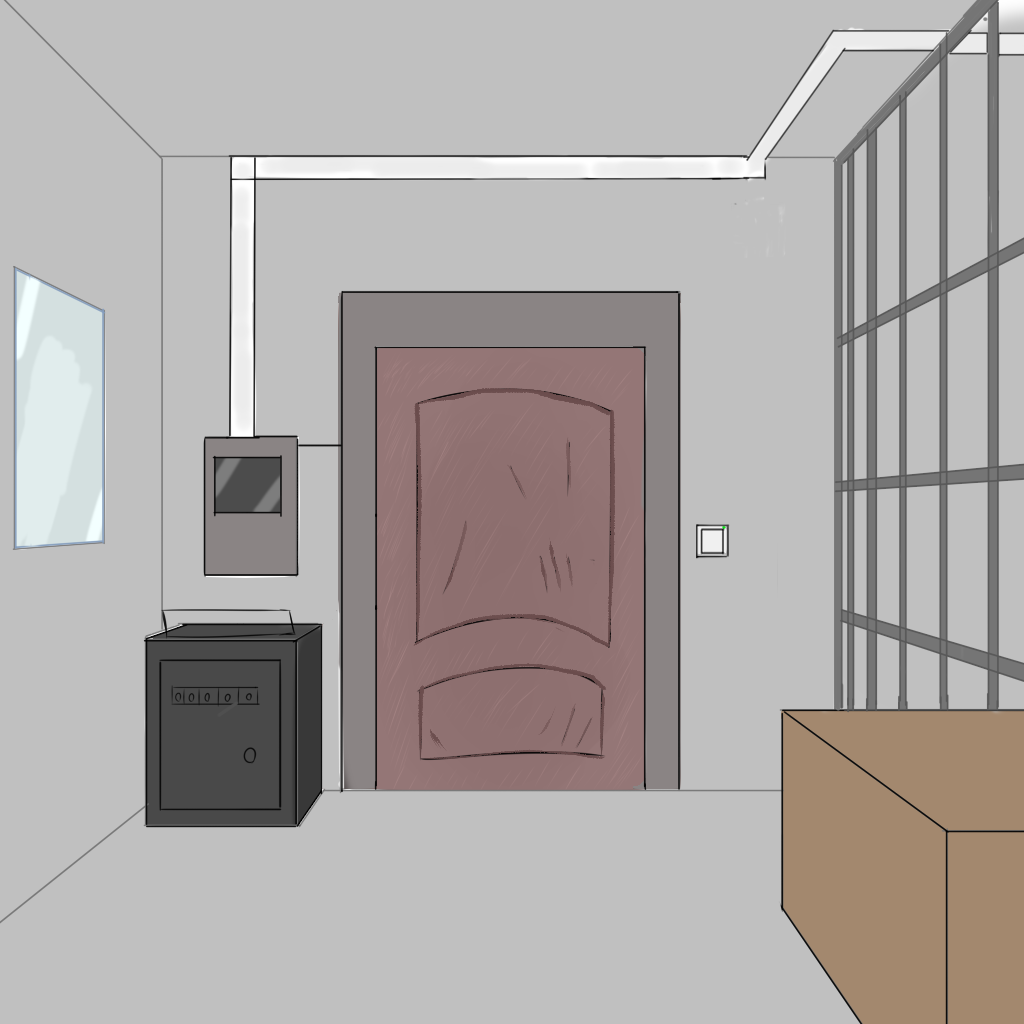
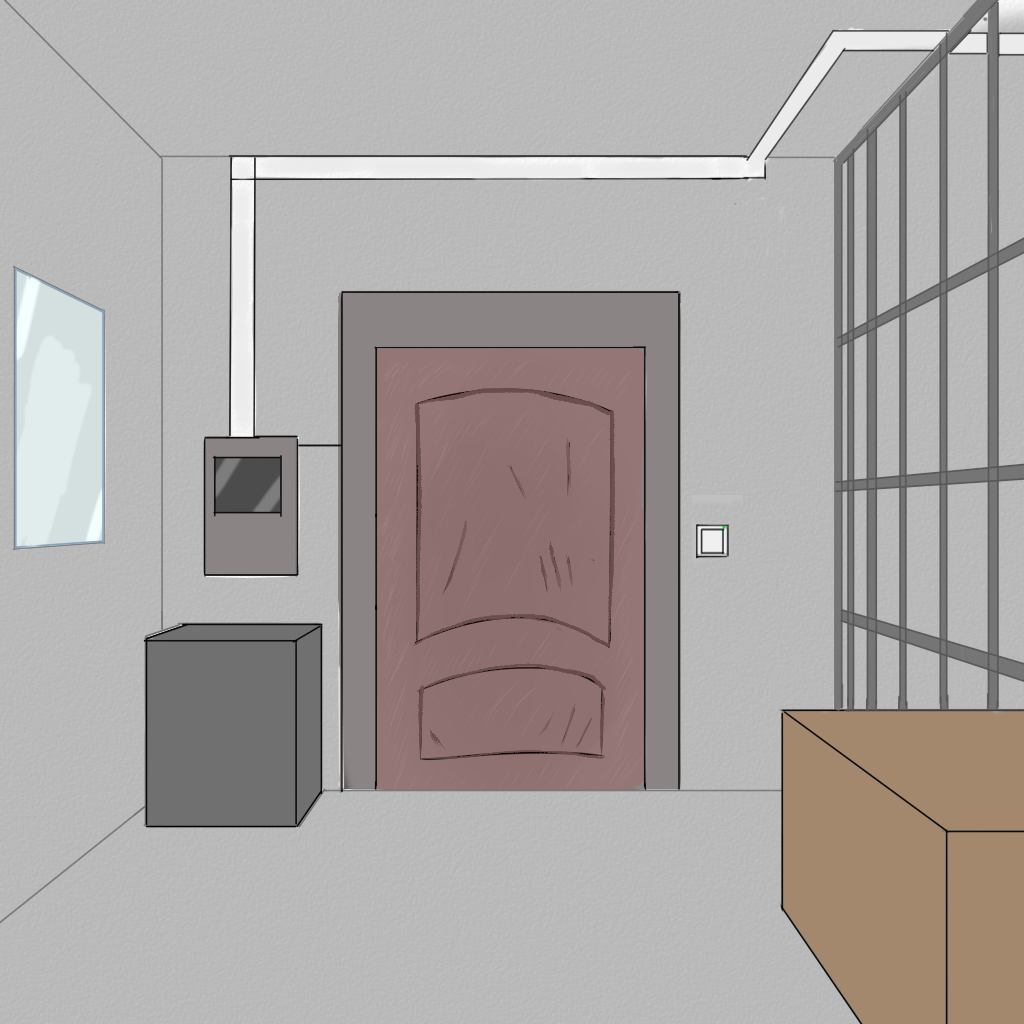
Debug and art (#153)
* added and improved images

* added new objects

* improved lock

* drawer fixed

Changed region(s): [[0.125, 0.5938, 0.3125, 0.8125]]

diff --git a/src/components/game/index.js b/src/components/game/index.js
@@ -158,7 +158,7 @@ export default function Game(props) {
 
   function displayLastRiddle() {
     //    frontDoor.children[4].on("pointerdown", openEscapeDoor);
-    //    frontDoor.children[6].visible = true;
+     frontDoor.children[6].visible = true;
     //    frontDoor.children[2]
     dispatch({ type: "SELECT_ESCAPE_SCREEN" });
     // frontDoor.children[4].on("pointerdown", openEscapeDoor);
@@ -168,6 +168,7 @@ export default function Game(props) {
   function useBlueCard() {
     dispatch({ type: "SELECT_BLUE_SLOT" });
     // sets displayLastRiddle on the escapeDoorScreen
+    frontDoor.children[6].visible = true;
     frontDoor.children[4].on("pointerdown", displayLastRiddle);
   }
 
@@ -190,7 +191,7 @@ export default function Game(props) {
   function takeIDCard1() {
     dispatch({ type: "TAKE_IDCARD1" });
     // let greenSlot = innerCell.children[1];
-    greenCard = frontDoor.children[3];
+    greenCard = frontDoor.children[8];
     greenCard.visible = false;
     // props.app.stage.children[8].visible = false;
     // greenSlot.off("pointerdown", withoutGreenCard);
@@ -203,7 +204,7 @@ export default function Game(props) {
 
   function takeIDCard2() {
     //5 is idCArd 2 - yellow card (without flashlight 4)
-    yellowCard = corner.children[3];
+    yellowCard = corner.children[6];
     yellowCard.visible = false;
     dispatch({ type: "TAKE_IDCARD2" });
     innerCell.children[3].off("pointerdown", withoutBlueCard);
@@ -231,20 +232,13 @@ export default function Game(props) {
     // props.app.stage.children[8].visible = true;
     door.off("pointerdown", closedDoor);
     door.on("pointerdown", openDoor);
-    // config.greenCard.visible = false;
-    // config.door.off("pointerdown", closedDoor);
-    // config.door.on("pointerdown", openDoor);
   }
 
   function takeFlashLight() {
     dispatch({ type: "TAKE_FLASHLIGHT" });
     //4 is FlashLightObject
     focus1.anchor.set(0.1);
-    // roomBack.children[4].visible = false;
-    // innerCell.children[4].visible = false; - closed box
-    // innerCell.children[5].visible = false; -opened box
-    innerCell.children[6].visible = false;
-    props.app.stage.children[7].visible = false;
+    innerCell.children[8].visible = false;
     props.app.stage.children[6].off("pointerdown", lightOn);
     props.app.stage.children[6].on("pointerdown", lightOnWithFlashLight);
     //GreenCardSlot gets deacivated:
@@ -334,19 +328,25 @@ export default function Game(props) {
     }
   };
 
+
+  // useGreenCard
   function openBox() {
     dispatch({ type: "OPEN_BOX" });
     let box = createBox(boxSheet, props.app);
     let boxOpened = box[1];
+    innerCell.children[4].visible = false;
     innerCell.addChild(boxOpened);
     let objects = setItems(items, props.app);
     objects.flashLight.on("pointerdown", takeFlashLight);
     innerCell.addChild(objects.flashLight);
   }
+
   function openExtraDrawer() {
     dispatch({ type: "OPEN_EXTRA_DRAWER" });
-    //make yellow card visible:
+    //OpenLilDoor
     props.app.stage.children[0].children[3].visible = true;
+    //make yellow card visible:
+    props.app.stage.children[0].children[6].visible = true;
     // finger
     props.app.stage.children[1].children[5].visible = true;
   }
@@ -404,6 +404,9 @@ export default function Game(props) {
     let boxClosed = box[0];
     // let boxOpened = box[1];
     let innerCellScreen = box[2];
+    let safe = box[3];
+    let safeOpen = box[4];
+    let tableOpen = box[5];
 
     // Preparing Eventhandler for Items, Objects and Interface
     left.on("pointerdown", turnLeft);
@@ -426,7 +429,7 @@ export default function Game(props) {
     objects.door.on("pointerdown", closedDoor);
 
     //FrontDoor
-    objects.safe.on("pointerdown", code);
+    safe.on("pointerdown", code);
     objects.escapeDoor.on("pointerdown", escapeDoorSealed);
     // objects.flashLight.on("pointerdown", takeFlashLight);
 
@@ -436,7 +439,7 @@ export default function Game(props) {
     objects.blueCardSlot.on("pointerdown", withoutBlueCard);
 
     // in corner
-    yellowCard = corner.children[3];
+    yellowCard = corner.children[6];
     //roomback
     objects.skeletonPc.on("pointerdown", nothingHappens);
     objects.skeletonFinger.on("pointerdown", nothingHappens);
@@ -445,16 +448,22 @@ export default function Game(props) {
     // order of objects in the roomback matters (starts from 0)
     // removes key  from drawer from corner for now - to add it when riddle solved
 
+
+
     corner.addChild(
       drawer,
       objects.key,
-      objects.idCard2,
+      tableOpen,
       objects.extraDrawer,
-      roomParts[6]
-    );
+      roomParts[6],
+      objects.idCard2, //Exchange
+     );
+
+
 
     objects.key.visible = false;
     objects.idCard2.visible = false;
+    corner.children[3].visible = false; //3 is Table
     corner.children[5].visible = false; //5 is message
 
     roomBack.addChild(
@@ -472,19 +481,24 @@ export default function Game(props) {
     roomBack.children[7].visible = false;
 
     frontDoor.addChild(
-      objects.escapeDoor,
-      objects.safe,
-      objects.idCard1,
+      objects.escapeDoor, //1
+      safe,
+      safeOpen,
       objects.escapeDoorScreen,
-      roomParts[8],
-      objects.lock,
-      objects.open
+      roomParts[8], //5
+      objects.lock, //6
+      objects.open, //7
+      objects.idCard1,
+        //8
       //FrontDoor Object Nr 1
       // objects.safe FrontDoor Nr 2
       // GreenCard Nr 3
       // escabeDoorScreen Nr4
       //Message Nr5
     );
+
+    frontDoor.children[8].visible = false;
+    frontDoor.children[3].visible = false;
 
     for (let i = 5; i <= 7; i++) {
       frontDoor.children[i].visible = false;
@@ -720,26 +734,35 @@ export default function Game(props) {
     let height = 300;
 
     boxSheet["closed"] = [
-      new PIXI.Texture(boxsheet, new PIXI.Rectangle(0, 0, width, height)),
+      new PIXI.Texture(boxsheet, new PIXI.Rectangle(10, 90, width, height)),
     ];
     boxSheet["opened"] = [
-      new PIXI.Texture(boxsheet, new PIXI.Rectangle(300, 0, width, height)),
+      new PIXI.Texture(boxsheet, new PIXI.Rectangle(410, 40, 250, 350)),
     ];
     boxSheet["uvlight"] = [
       new PIXI.Texture(boxsheet, new PIXI.Rectangle(620, 0, 260, 260)),
     ];
+    boxSheet["safe"] = [
+      new PIXI.Texture(boxsheet, new PIXI.Rectangle(100, 390, 200, 300)),
+    ];
+    boxSheet["safeOpen"] = [
+      new PIXI.Texture(boxsheet, new PIXI.Rectangle(260, 390, 300, 300)),
+    ];
+    boxSheet["tableOpen"] = [
+      new PIXI.Texture(boxsheet, new PIXI.Rectangle(360, 690, 300, 300)),   
+    ]
   }
 
   //State for Solved riddles
   if (
     assetReducer.solved.riddle1 === true &&
     props.app.stage.children[8].visible === true
-  ) {
+  ) { 
     leftArrow.visible = true;
     rightArrow.visible = true;
     props.app.stage.children[8].visible = false;
   }
-
+ 
   if (assetReducer.solved.riddle2Voucher === true) {
     props.app.stage.children[2].mask = false;
     props.app.stage.children[1].mask = false;
@@ -766,6 +789,7 @@ export default function Game(props) {
     // greenCard.visible = true;
     props.app.stage.children[3].children[6].visible = true;
     props.app.stage.children[2].children[3].visible = true;
+    props.app.stage.children[2].children[8].visible = true;
     // change skeletonPC function to display 5.riddle:
     props.app.stage.children[1].children[4].off("pointerdown", nothingHappens);
     props.app.stage.children[1].children[4].on(
@@ -793,6 +817,8 @@ export default function Game(props) {
     // frontDoor.children[4].on("pointerdown", openEscapeDoor);
     //or 2.  sets escape door on the door
     // frontDoor.children[1].on("pointerdown", escape); -doesnt work
+    props.app.stage.children[2].children[6].visible = false;
+    props.app.stage.children[2].children[7].visible = true;
     props.app.stage.children[2].children[1].on("pointerdown", escape);
   }
 

diff --git a/src/helper/createObjects.js b/src/helper/createObjects.js
@@ -88,8 +88,11 @@ export function setItems(items, app) {
 
   // skeletonPcON.interactive = true;
   // skeletonPcON.buttonMode = true;
-  skeletonPcON.x = 645;
-  skeletonPcON.y = 395;
+  skeletonPcON.x = 660;
+  skeletonPcON.y = 405;
+  skeletonPcON.height = 70;
+  skeletonPcON.width = 80;
+  skeletonPcON.rotation = 0.05;
 
   //Interactions Only
   const door = new PIXI.Graphics();
@@ -229,7 +232,7 @@ export function setItems(items, app) {
   setBasics(escapeDoorScreen);
   const safe = new PIXI.Graphics();
 
-  safe.beginFill(0xffffff, 0.001);
+  safe.beginFill(0xffffff, 1);
   //Left, Top,Width,Height,
   safe.drawRect(120, 500, 120, 140);
   setBasics(safe);
@@ -267,8 +270,8 @@ export function createDrawer(furnitureSheet) {
   const drawer = new PIXI.AnimatedSprite(furnitureSheet.closed);
   drawer.buttonMode = true;
   drawer.interactive = true;
-  drawer.on("pointerover", onPointerOver).on("pointerout", onPointerOut);
-
+  drawer.on("pointerdown", onPointerOver).on("pointermove", onPointerOut);
+ 
   function onPointerOver(event) {
     event.stopPropagation();
     const valueY = Object.values(event.data.global)[1];
@@ -282,7 +285,7 @@ export function createDrawer(furnitureSheet) {
     } else if (valueY >= 640 && valueY <= 699) {
       this.texture = furnitureSheet.open1[0];
     } else return;
-  }
+  } 
 
   function onPointerOut() {
     this.isOver = false;
@@ -326,16 +329,34 @@ export function createBox(boxSheet) {
   const boxClosed = new PIXI.Sprite(boxSheet.closed[0]);
   const boxOpened = new PIXI.Sprite(boxSheet.opened[0]);
   const uvlight = new PIXI.Sprite(boxSheet.uvlight[0]);
+  const safe = new PIXI.Sprite(boxSheet.safe[0]);
+  const safeOpen = new PIXI.Sprite(boxSheet.safeOpen[0]);
+  const tableOpen = new PIXI.Sprite(boxSheet.tableOpen[0]);
+  
 
   // position
   boxClosed.x = 450;
   boxClosed.y = 475;
-  boxOpened.x = 445;
+  boxOpened.x = 465;
   boxOpened.y = 420;
   uvlight.x = 220;
   uvlight.y = 145;
   uvlight.width = 200;
   uvlight.height = 200;
+  safe.x = 95;
+  safe.y = 430;
+  safe.width = 170;
+  safe.height = 250;
+  safeOpen.x = 20;
+  safeOpen.y = 430;
+  safeOpen.width = 250;
+  safeOpen.height = 250;
+  tableOpen.width = 250;
+  tableOpen.height = 250;
+  tableOpen.x = 130;
+  tableOpen.y = 420;
 
-  return [boxClosed, boxOpened, uvlight];
+//  safe.drawRect(120, 500, 120, 140);
+
+  return [boxClosed, boxOpened, uvlight, safe, safeOpen, tableOpen];
 }

diff --git a/src/components/userInput/index.js b/src/components/userInput/index.js
@@ -1,7 +1,7 @@
 import React, { useState, useEffect } from "react";
 import "./index.scss";
 import { useDispatch, useSelector } from "react-redux";
-import getRiddle from "../../helper/riddles copy.js";
+import getRiddle from "../../helper/riddles.js";
 import RiddleEditor from "./editor";
 
 export default function UserInput() {
